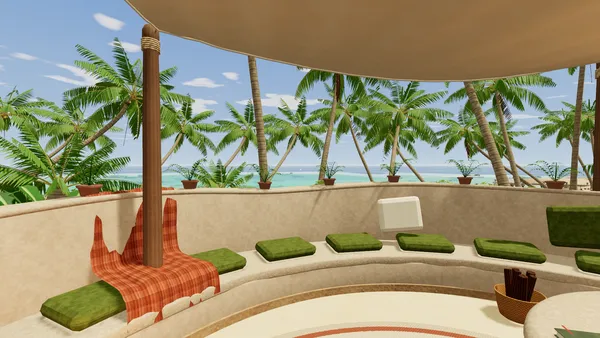
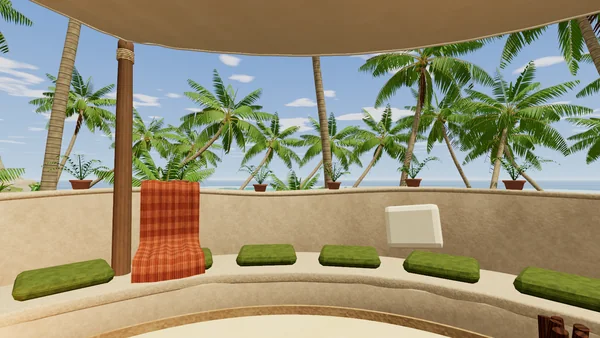
Turn the home hero into a scene carousel, and retake the view out from the cove
The 2 x 2 collage put the headline and buttons over the scenes, so it was hard
to see each one as a place to step into. The hero is now a headline band, then
a carousel: the centred scene fills the stage, its neighbours peek in either
side, and the text lines up with its edges. Only the scene's own glass tag sits
on the image.

- Scroll snapping moves the slides with no script. site/reel.js adds the loop,
  arrows and keys, progress segments, a slideshow that pauses on hover, focus
  or off screen and stops once the visitor takes over, and an ambient wash of
  the centred scene behind the stage.
- Slides come forward as they reach the centre (scale, light, a drift of the
  image in its frame) with CSS scroll-driven animations, and reel.js drives
  the same effect where those are missing. Reduced motion drops the movement
  and the slideshow.
- On a phone the slide is 80% wide with both neighbours peeking, the controls
  sit under it, and the pitch and buttons follow.
- The liquid glass treatment covers the brand, GitHub link, glass button,
  scene tags and carousel controls.
- The hero's image sizes hint follows the slide width, and the shelf's lastmod
  moves to today.

looking-out.webp is retaken on Crescent Cove at HEAD with the repaired throw,
which now hangs clear of the canopy mast.

diff --git a/site/shelf.css b/site/shelf.css
@@ -13,16 +13,31 @@ img{display:block;max-width:100%}
 h2{font:400 clamp(40px,5.4vw,72px)/.98 var(--serif);letter-spacing:-.01em;margin:0}
 .sub{color:var(--ink-soft);font-size:clamp(17px,1.5vw,19px);max-width:620px}
 
+/* liquid glass: a blurred, saturated backdrop under a faint tint, lit from the top left.
+   A 1px rim (::before) catches light on two opposite corners. Each element sets --lg-r to its corner radius. */
+.brand,.top nav .gh,.button.glass,.hero-tile span,.reel-btn,.reel-dots{--lg-r:var(--r-control);isolation:isolate;color:var(--cream);border-radius:var(--lg-r);
+ background:linear-gradient(135deg,rgba(255,255,255,.26) 0%,rgba(255,255,255,.07) 38%,rgba(255,255,255,.03) 62%,rgba(255,255,255,.16) 100%),rgba(26,31,22,.22);
+ -webkit-backdrop-filter:blur(18px) saturate(1.7) brightness(1.06);backdrop-filter:blur(18px) saturate(1.7) brightness(1.06);
+ box-shadow:inset 0 1px 0 rgba(255,255,255,.5),inset 0 -1px 0 rgba(255,255,255,.1),inset 1px 0 0 rgba(255,255,255,.14),inset 0 0 18px rgba(255,255,255,.07),0 1px 2px rgba(10,14,8,.3),0 10px 28px -6px rgba(10,14,8,.38);
+ text-shadow:0 1px 2px rgba(10,14,8,.4)}
+.brand::before,.top nav .gh::before,.button.glass::before,.hero-tile span::before,.reel-btn::before,.reel-dots::before{content:"";position:absolute;inset:0;z-index:-1;border-radius:inherit;padding:1px;pointer-events:none;
+ background:linear-gradient(135deg,rgba(255,255,255,.85),rgba(255,255,255,.08) 34%,rgba(255,255,255,.06) 66%,rgba(255,255,255,.55));
+ -webkit-mask:linear-gradient(#000 0 0) content-box,linear-gradient(#000 0 0);-webkit-mask-composite:xor;mask:linear-gradient(#000 0 0) content-box exclude,linear-gradient(#000 0 0)}
+.button.glass,.reel-btn{transition:transform .2s ease,background-color .2s ease}
+.button.glass:hover,.reel-btn:hover{background-color:rgba(255,255,255,.1)}
+@supports not ((backdrop-filter:blur(1px)) or (-webkit-backdrop-filter:blur(1px))){.brand,.top nav .gh,.button.glass,.hero-tile span,.reel-btn,.reel-dots{background:rgba(26,31,22,.62)}}
+@media (prefers-reduced-transparency:reduce){.brand,.top nav .gh,.button.glass,.hero-tile span,.reel-btn,.reel-dots{-webkit-backdrop-filter:none;backdrop-filter:none;background:rgba(26,31,22,.78)}}
+
 /* header over the hero */
 .top{position:absolute;inset:0 0 auto;z-index:5;display:flex;justify-content:space-between;align-items:center;gap:16px;padding:20px clamp(16px,4vw,40px);color:var(--cream)}
 .brand,.top nav a{display:inline-flex;align-items:center;text-decoration:none;font-size:14px;font-weight:500;border-radius:var(--r-control)}
-.brand{gap:12px;padding:10px 16px;letter-spacing:.22em;font-size:15px;background:var(--glass);border:1px solid var(--glass-line);backdrop-filter:blur(14px);-webkit-backdrop-filter:blur(14px)}
+.brand{position:relative;gap:12px;padding:10px 16px;letter-spacing:.22em;font-size:15px}
 .mark{width:16px;height:16px;border-radius:50%;background:linear-gradient(var(--cream) 50%,var(--signal) 50%);border:1.5px solid var(--cream)}
 .by{letter-spacing:0;font-size:12px;font-weight:400;opacity:.7;border-left:1px solid var(--glass-line);padding-left:12px}
 .top nav{display:flex;gap:4px}
 .top nav a{padding:10px 16px}
 .top nav a:hover{background:var(--glass)}
-.top nav .gh{border:1px solid var(--glass-line)}
+.top nav .gh{position:relative}
 .scenes-menu{position:relative}
 .scenes-menu summary{display:inline-flex;align-items:center;gap:8px;padding:10px 16px;font-size:14px;font-weight:500;border-radius:var(--r-control);cursor:pointer;list-style:none}
 .scenes-menu summary::-webkit-details-marker{display:none}
@@ -33,31 +48,82 @@ h2{font:400 clamp(40px,5.4vw,72px)/.98 var(--serif);letter-spacing:-.01em;margin
 
 /* hero */
 .hero{position:relative;min-height:100svh;display:grid;overflow:hidden;background:var(--night);color:var(--cream)}
-/* four worlds, 2 x 2; stacked in rows on a portrait screen so each keeps its frame */
-.hero-collage{position:absolute;inset:0;display:grid;grid-template:1fr 1fr/1fr 1fr;gap:3px;background:var(--night);transform:scale(1.02);animation:drift 24s ease-in-out infinite alternate}
-.hero-tile{position:relative;display:block;min-height:0;overflow:hidden;text-decoration:none}
-.hero-tile img{width:100%;height:100%;object-fit:cover;transition:filter .2s}
-.hero-tile:hover img{filter:brightness(1.08)}
-.hero-tile:focus-visible{outline:2px solid var(--cream);outline-offset:-6px}
-.hero-tile span{position:absolute;right:14px;bottom:14px;padding:5px 12px;font-size:13px;font-weight:500;border-radius:var(--r-control);background:var(--glass);border:1px solid var(--glass-line);backdrop-filter:blur(14px);-webkit-backdrop-filter:blur(14px)}
-@keyframes drift{to{transform:scale(1.05) translate(-.8%,-.5%)}}
-@media (prefers-reduced-motion:reduce){.hero-collage{animation:none}}
-@media (max-aspect-ratio:1/1){.hero-collage{grid-template:repeat(4,1fr)/1fr}}
-.hero::after{content:"";position:absolute;inset:0;background:linear-gradient(180deg,rgba(26,31,22,.45) 0%,rgba(26,31,22,.1) 34%,rgba(26,31,22,0) 50%,rgba(26,31,22,.55) 72%,rgba(26,31,22,.9) 100%)}
-/* the tiles stay clickable under the scrim and the copy; only the copy's links take the pointer */
-.hero::after,.hero-copy{pointer-events:none}
-.hero-copy a{pointer-events:auto}
 .hero-copy{position:relative;z-index:2;width:100%;max-width:1280px;display:flex;flex-direction:column;justify-content:space-between;padding:clamp(96px,13vh,132px) clamp(16px,4vw,40px) clamp(32px,7vh,72px)}
 .eyebrow{font-size:12px;font-weight:600;letter-spacing:.08em;text-transform:uppercase;opacity:.75;margin:0 0 18px}
 h1{font:400 clamp(46px,7vw,104px)/.95 var(--serif);letter-spacing:-.015em;margin:0;text-shadow:0 2px 30px rgba(26,31,22,.35)}
 h1 em{color:#ffe9c7}
+.sr-only{position:absolute;width:1px;height:1px;margin:-1px;overflow:hidden;clip-path:inset(50%);white-space:nowrap}
+
+/* home hero: the headline and pitch in a band, then the scenes in a carousel. The centred slide's
+   width sets the layout: the text lines up with its edges and the neighbours peek in either side.
+   Scroll snapping moves the slides with no script; reel.js adds the loop, controls and slideshow. */
+.home{container-type:inline-size}
+.home-grid{--slide-w:clamp(44cqw,calc((100svh - 430px)*16/9),min(66cqw,1400px));--edge:calc((100cqw - var(--slide-w))/2);--gap:clamp(12px,1.6cqw,28px);--back:.86;
+ position:relative;z-index:1;display:grid;grid-template-columns:var(--edge) minmax(0,1.15fr) minmax(0,1fr) var(--edge);
+ grid-template-areas:". title pitch ." "reel reel reel reel" ". ctas bar .";align-content:center;padding:clamp(92px,12vh,124px) 0 clamp(24px,4vh,48px)}
+.home-title{grid-area:title;align-self:end}
+.home-title h1{font-size:clamp(40px,calc(var(--slide-w)*.078),92px)}
+.home-pitch{grid-area:pitch;align-self:end;padding-left:clamp(24px,3cqw,56px)}
+.home-pitch .lede{margin:0;max-width:none}
+.home .capture{margin:12px 0 0}
+.home .ctas{grid-area:ctas;align-self:center}
+/* an ambient wash of the centred scene behind the stage, blurred small and scaled up so it costs little */
+.hero-ambient{position:absolute;inset:0;pointer-events:none;-webkit-mask:radial-gradient(70% 60% at 50% 64%,#000 25%,transparent 100%);mask:radial-gradient(70% 60% at 50% 64%,#000 25%,transparent 100%)}
+.hero-ambient i{position:absolute;left:40%;top:44%;width:20%;height:20%;background:center/cover no-repeat;filter:blur(7px) saturate(1.4);transform:scale(6);opacity:0;transition:opacity 1.4s ease}
+.hero-ambient i.is-on{opacity:.42}
+
+.reel{grid-area:reel;position:relative;display:flex;gap:var(--gap);overflow-x:auto;overflow-y:hidden;overscroll-behavior-x:contain;scroll-snap-type:x mandatory;scrollbar-width:none;
+ padding:clamp(22px,3.6vh,40px) var(--edge) clamp(22px,3.4vh,36px)}
+.reel::-webkit-scrollbar{display:none}
+.hero-tile{position:relative;flex:0 0 var(--slide-w);aspect-ratio:16/9;overflow:hidden;isolation:isolate;border-radius:clamp(14px,1.4cqw,22px);scroll-snap-align:center;scroll-snap-stop:always;
+ text-decoration:none;color:var(--cream);background:#11150e;box-shadow:0 0 0 1px rgba(255,255,255,.07),0 34px 60px -30px rgba(0,0,0,.75);-webkit-tap-highlight-color:transparent}
+.hero-tile img{position:absolute;top:0;left:-5%;width:110%;max-width:none;height:100%;object-fit:cover}
+.hero-tile:focus-visible{outline:2px solid var(--cream);outline-offset:4px}
+.hero-tile span{position:absolute;left:clamp(12px,1.4cqw,22px);bottom:clamp(12px,1.4cqw,22px);z-index:2;display:inline-flex;align-items:center;gap:10px;padding:9px 16px;
+ font-size:clamp(13px,1.05cqw,15px);font-weight:500;letter-spacing:.01em;line-height:1.2;--lg-r:999px;
+ background:linear-gradient(135deg,rgba(255,255,255,.22) 0%,rgba(255,255,255,.05) 40%,rgba(255,255,255,.02) 62%,rgba(255,255,255,.14) 100%),rgba(20,24,17,.5)}
+.hero-tile span::after{content:"\2197";opacity:.8;transition:translate .25s ease}
+.hero-tile:hover span::after{translate:2px -2px}
+/* each slide comes forward as it reaches the centre: the neighbours sit back and dim,
+   the image drifts within its frame, and the scene's tag rises in */
+@keyframes reel-frame{0%,12%,88%,100%{scale:var(--back)}50%{scale:1}}
+@keyframes reel-image{0%{translate:-4.5% 0}100%{translate:4.5% 0}}
+@keyframes reel-light{0%,12%,88%,100%{filter:brightness(.4) saturate(.75)}50%{filter:none}}
+@keyframes reel-tag{0%,38%,62%,100%{opacity:0;translate:0 8px}50%{opacity:1;translate:none}}
+@supports (animation-timeline:view()){
+ .hero-tile{view-timeline:--slide inline;animation:reel-frame linear both;animation-timeline:--slide}
+ .hero-tile img{animation:reel-image linear both,reel-light linear both;animation-timeline:--slide,--slide}
+ .hero-tile span{animation:reel-tag linear both;animation-timeline:--slide}
+}
+/* without scroll-driven animations, reel.js sets --p (1 at the centre, 0 one slide away) and --x (-1 to 1) */
+.reel.is-tracked .hero-tile{scale:calc(var(--back) + (1 - var(--back))*var(--p,1))}
+.reel.is-tracked .hero-tile img{translate:calc(var(--x,0)*4.5%) 0;filter:brightness(calc(.42 + .58*var(--p,1))) saturate(calc(.8 + .2*var(--p,1)))}
+.reel.is-tracked .hero-tile span{opacity:clamp(0,calc((var(--p,1) - .8)*5),1);translate:0 calc((1 - var(--p,1))*8px)}
+@media (prefers-reduced-motion:reduce){.hero-tile,.hero-tile img,.hero-tile span{scale:none!important;translate:none!important}}
+
+.reel-bar{grid-area:bar;justify-self:end;display:flex;align-items:center;gap:10px}
+.reel-bar[hidden]{display:none}
+.reel-btn{position:relative;flex:none;width:44px;height:44px;display:grid;place-items:center;padding:0;border:0;cursor:pointer;font:inherit;--lg-r:999px}
+.reel-btn svg{width:18px;height:18px;fill:none;stroke:currentColor;stroke-width:1.8;stroke-linecap:round;stroke-linejoin:round}
+.reel-play .i-play{fill:currentColor;stroke:none}
+.reel-bar.is-playing .i-play,.reel-bar:not(.is-playing) .i-pause{display:none}
+.reel-btn:focus-visible,.reel-dots button:focus-visible{outline:2px solid var(--cream);outline-offset:2px}
+.reel-dots{position:relative;display:flex;align-items:center;height:44px;margin:0;padding:0 12px;list-style:none;--lg-r:999px}
+.reel-dots button{display:block;width:clamp(26px,2.6cqw,36px);padding:16px 3px;border:0;background:none;cursor:pointer;border-radius:4px}
+.reel-dots i{display:block;height:3px;border-radius:2px;background:rgba(246,242,233,.26);overflow:hidden}
+.reel-dots i::after{content:"";display:block;height:100%;background:var(--cream);transform-origin:left;scale:0 1;transition:scale .3s ease}
+.reel-dots .is-active i::after{scale:1 1}
+.reel-bar.is-playing .reel-dots .is-active i::after{animation:reel-dwell 6.5s linear both}
+.reel-bar.is-held .reel-dots .is-active i::after{animation-play-state:paused}
+@keyframes reel-dwell{from{scale:0 1}to{scale:1 1}}
+@media (hover:none){.reel-arrow{display:none}}
 .lede{max-width:560px;font-size:clamp(16px,1.4vw,19px);opacity:.8;margin:0 0 28px}
 .ctas{display:flex;flex-wrap:wrap;gap:12px;margin:0}
 .button{display:inline-flex;align-items:center;justify-content:center;gap:10px;padding:14px 22px;border-radius:var(--r-control);font-size:15px;font-weight:500;text-decoration:none;transition:transform .2s ease}
 .button:hover{transform:translateY(-1px)}
 .button.primary{background:var(--cream);color:var(--ink)}
 .button.primary::after{content:"↗"}
-.button.glass{background:var(--glass);border:1px solid var(--glass-line);backdrop-filter:blur(14px);-webkit-backdrop-filter:blur(14px)}
+.button.glass{position:relative}
 .capture{font-size:12px;opacity:.55;margin:20px 0 0}
 
 /* workspace */
@@ -127,14 +193,18 @@ footer{border-top:1px solid var(--line);font-size:13px;color:var(--ink-faint)}
 footer .wrap{display:flex;justify-content:space-between;flex-wrap:wrap;gap:12px;padding-top:28px;padding-bottom:28px}
 footer a{text-decoration:none}
 
-/* about page: a shorter hero without the collage */
+/* about page: a shorter hero without the carousel */
 .hero.compact{min-height:min(80svh,760px)}
 .about-section{padding-top:clamp(72px,10vw,120px)}
 .about-section .sub{margin:20px 0 0}
 
 @media (max-width:860px){
   .by,.top nav a:not(.gh),.scenes-menu{display:none}
-  .hero::after{background:linear-gradient(180deg,rgba(26,31,22,.45) 0%,rgba(26,31,22,.1) 28%,rgba(26,31,22,.55) 46%,rgba(26,31,22,.88) 62%,rgba(26,31,22,.95) 100%)}
+  .home-grid{--slide-w:80cqw;--gap:10px;--back:.94;grid-template-columns:var(--edge) minmax(0,1fr) var(--edge);grid-template-areas:". title ." "reel reel reel" ". bar ." ". pitch ." ". ctas .";align-content:start;padding-top:96px}
+  .reel-bar{justify-self:center}
+  .home .ctas{margin-top:22px}
+  .home-title h1{font-size:clamp(40px,12cqw,64px)}
+  .home-pitch{padding:0;margin-top:28px}
   .button{flex:1 1 auto}
   .section-head,.step,.step:nth-of-type(even),.status,.scene,.build-grid{grid-template-columns:1fr}
   .step:nth-of-type(even) .copy{order:0}

diff --git a/site/reel.js b/site/reel.js
@@ -1,0 +1,158 @@
+// The home hero's carousel. Scroll snapping moves the slides and works without this script.
+// This adds the loop, arrows and keys, progress segments, a slideshow that stops for good once the
+// visitor takes over, the ambient wash behind the stage and, where CSS scroll-driven animations are
+// missing, the focus effect on each slide (shelf.css reads --p and --x).
+(() => {
+  const reel = document.querySelector('.reel'), bar = document.querySelector('.reel-bar');
+  const real = reel ? [...reel.querySelectorAll('.hero-tile')] : [];
+  if (!bar || real.length < 2) return;
+  const n = real.length, dots = bar.querySelector('.reel-dots'), play = bar.querySelector('.reel-play');
+  const status = document.querySelector('.reel-status'), wash = [...document.querySelectorAll('.hero-ambient i')];
+  const still = matchMedia('(prefers-reduced-motion: reduce)');
+  const title = (slide) => slide.querySelector('span')?.textContent ?? '';
+
+  // Two copies at each end let the neighbours peek on both sides; on settling on a copy the reel
+  // jumps to its original, which looks the same, so the loop never shows a seam.
+  const LEAD = 2;
+  real.forEach((slide, i) => { slide.dataset.i = i; });
+  const copy = (slide) => {
+    const c = slide.cloneNode(true);
+    c.dataset.copy = ''; c.tabIndex = -1; c.setAttribute('aria-hidden', 'true');
+    c.querySelector('img')?.removeAttribute('fetchpriority');
+    return c;
+  };
+  reel.prepend(...real.slice(-LEAD).map(copy)); reel.append(...real.slice(0, LEAD).map(copy));
+  const slides = [...reel.querySelectorAll('.hero-tile')];
+
+  // Geometry is read once per layout change, never during a scroll frame.
+  let mids = [], width = 0, pitch = 1;
+  const measure = () => {
+    width = reel.clientWidth;
+    mids = slides.map((s) => s.offsetLeft + s.offsetWidth / 2);
+    pitch = mids[1] - mids[0] || 1;
+  };
+  const leftFor = (k) => mids[k] - width / 2;
+  const nearest = (x) => {
+    let best = 0;
+    for (let k = 1; k < slides.length; k++) if (Math.abs(leftFor(k) - x) < Math.abs(leftFor(best) - x)) best = k;
+    return best;
+  };
+  let target = null;
+  const move = (k, smooth) => {
+    k = Math.max(0, Math.min(slides.length - 1, k));
+    target = smooth ? k : null;
+    reel.scrollTo({ left: leftFor(k), behavior: smooth && !still.matches ? 'smooth' : 'instant' });
+    return k;
+  };
+  const step = (d) => move((target ?? nearest(reel.scrollLeft)) + d, true);
+
+  // Fallback focus effect for browsers without animation-timeline.
+  const tracked = !(window.CSS && CSS.supports('animation-timeline: view()'));
+  if (tracked) reel.classList.add('is-tracked');
+  const track = (x) => {
+    if (!tracked) return;
+    const mid = x + width / 2, reach = (width + pitch) / 2;
+    slides.forEach((s, k) => {
+      const d = mids[k] - mid;
+      s.style.setProperty('--p', Math.max(0, 1 - Math.abs(d) / pitch).toFixed(3));
+      s.style.setProperty('--x', Math.max(-1, Math.min(1, -d / reach)).toFixed(3));
+    });
+  };
+
+  const marks = real.map((slide, i) => {
+    const li = document.createElement('li'), b = document.createElement('button');
+    b.type = 'button'; b.setAttribute('aria-label', `Show ${title(slide)}`); b.append(document.createElement('i'));
+    b.addEventListener('click', () => { stop(); move(LEAD + i, true); });
+    li.append(b); dots.append(li);
+    return b;
+  });
+
+  let lit = 0;
+  const glow = (slide) => {
+    if (wash.length < 2) return;
+    const img = slide.querySelector('img'), small = img.getAttribute('srcset')?.split(',')[0].trim().split(/\s+/)[0];
+    const next = wash[lit ^= 1];
+    next.style.backgroundImage = `url("${small || img.currentSrc || img.src}")`;
+    next.classList.add('is-on'); wash[lit ^ 1].classList.remove('is-on');
+  };
+
+  let active = -1;
+  const show = (i) => {
+    if (i === active) return;
+    active = i;
+    marks.forEach((b, j) => { b.classList.toggle('is-active', j === i); if (j === i) b.setAttribute('aria-current', 'true'); else b.removeAttribute('aria-current'); });
+    if (status) status.textContent = `${title(real[i])}, ${i + 1} of ${n}`;
+    glow(real[i]);
+  };
+
+  // A settled reel on a copy jumps to the original, unless a finger is still on the glass.
+  let touching = false;
+  const settle = () => {
+    if (touching) return;
+    target = null;
+    const k = nearest(reel.scrollLeft), slide = slides[k];
+    if ('copy' in slide.dataset) move(LEAD + Number(slide.dataset.i), false);
+    show(Number(slide.dataset.i));
+  };
+  let frame = 0, idle = 0;
+  const ends = 'onscrollend' in window;
+  reel.addEventListener('scroll', () => {
+    if (!frame) frame = requestAnimationFrame(() => {
+      frame = 0;
+      const x = reel.scrollLeft;
+      track(x); show(Number(slides[nearest(x)].dataset.i));
+    });
+    if (!ends) { clearTimeout(idle); idle = setTimeout(settle, 160); }
+  }, { passive: true });
+  if (ends) reel.addEventListener('scrollend', settle);
+  reel.addEventListener('touchstart', () => { touching = true; }, { passive: true });
+  reel.addEventListener('touchend', () => { touching = false; if (!ends) { clearTimeout(idle); idle = setTimeout(settle, 160); } }, { passive: true });
+
+  // The slideshow: the active segment's fill is the timer, so pausing the fill pauses the show.
+  let playing = !still.matches;
+  const held = new Set();
+  const sync = () => {
+    bar.classList.toggle('is-playing', playing);
+    bar.classList.toggle('is-held', held.size > 0);
+    play.setAttribute('aria-label', playing ? 'Pause the slideshow' : 'Play the slideshow');
+    status?.setAttribute('aria-live', playing && !held.size ? 'off' : 'polite');
+  };
+  const stop = () => { if (playing) { playing = false; sync(); } };
+  const hold = (why, on) => { if (on) held.add(why); else held.delete(why); sync(); };
+  dots.addEventListener('animationend', (e) => { if (e.animationName === 'reel-dwell' && playing && !held.size) step(1); });
+  play.addEventListener('click', () => { playing = !playing; sync(); });
+  bar.querySelectorAll('[data-step]').forEach((b) => b.addEventListener('click', () => { stop(); step(Number(b.dataset.step)); }));
+
+  // The visitor takes over: touch, a sideways scroll, the keys or a click on a neighbour.
+  reel.addEventListener('pointerdown', (e) => { if (e.pointerType !== 'mouse') stop(); });
+  reel.addEventListener('wheel', (e) => { if (Math.abs(e.deltaX) > Math.abs(e.deltaY)) stop(); }, { passive: true });
+  reel.addEventListener('keydown', (e) => {
+    if (e.key !== 'ArrowLeft' && e.key !== 'ArrowRight') return;
+    e.preventDefault(); stop();
+    const k = step(e.key === 'ArrowLeft' ? -1 : 1);
+    slides[LEAD + Number(slides[k].dataset.i)].focus({ preventScroll: true });
+  });
+  reel.addEventListener('click', (e) => {
+    const k = slides.indexOf(e.target.closest('.hero-tile'));
+    if (k < 0 || k === nearest(reel.scrollLeft)) return;
+    e.preventDefault(); stop(); move(k, true);
+  });
+  reel.addEventListener('focusin', (e) => {
+    hold('focus', true);
+    // A slide reached by Tab comes to the centre; one already there, or its copy on the way, stays.
+    const k = slides.indexOf(e.target.closest('.hero-tile'));
+    if (k >= 0 && slides[k].dataset.i !== slides[target ?? nearest(reel.scrollLeft)].dataset.i) move(k, true);
+  });
+  reel.addEventListener('focusout', (e) => { if (!reel.contains(e.relatedTarget)) hold('focus', false); });
+  reel.addEventListener('pointerenter', (e) => { if (e.pointerType === 'mouse') hold('hover', true); });
+  reel.addEventListener('pointerleave', () => hold('hover', false));
+  document.addEventListener('visibilitychange', () => hold('hidden', document.hidden));
+  new IntersectionObserver(([entry]) => hold('away', !entry.isIntersecting), { threshold: 0.35 }).observe(reel);
+  new ResizeObserver(() => {
+    const keep = active < 0 ? 0 : active;
+    measure(); move(LEAD + keep, false); track(reel.scrollLeft);
+  }).observe(reel);
+
+  measure(); move(LEAD, false); track(reel.scrollLeft); show(0);
+  bar.hidden = false; sync();
+})();

diff --git a/site/index.html b/site/index.html
@@ -25,8 +25,9 @@
   <meta name="twitter:image" content="https://holodeck.kilnstudio.tools/images/card.jpg">
   <meta name="twitter:image:alt" content="Four Holodeck worlds: Meridian Sanctuary's marble terraces above the clouds, Crescent Cove's lagoon from the air, a snowbound mountain cabin among pines, and the Quiet Courtyard's fountain among cypress and olive trees.">
   <link rel="preload" href="fonts/InstrumentSerif-Regular.woff2" as="font" type="font/woff2" crossorigin>
-  <!-- preload:start --><link rel="preload" as="image" href="images/hero-meridian-sanctuary.webp" imagesrcset="images/hero-meridian-sanctuary-960.webp 960w, images/hero-meridian-sanctuary.webp 1920w" imagesizes="(max-aspect-ratio:1/1) 100vw, 50vw" fetchpriority="high"><!-- preload:end -->
+  <!-- preload:start --><link rel="preload" as="image" href="images/hero-meridian-sanctuary.webp" imagesrcset="images/hero-meridian-sanctuary-960.webp 960w, images/hero-meridian-sanctuary.webp 1920w" imagesizes="(max-width:860px) 80vw, 66vw" fetchpriority="high"><!-- preload:end -->
   <link rel="stylesheet" href="shelf.css">
+  <script src="reel.js" defer></script>
   <!-- jsonld:start --><script type="application/ld+json">{
  "@context": "https://schema.org",
  "@graph": [
@@ -135,23 +136,31 @@
   </header>
 
   <main>
-    <section class="hero">
-      <div class="hero-collage"><!-- hero:start -->
-        <a class="hero-tile" href="worlds/meridian-sanctuary/"><img src="images/hero-meridian-sanctuary.webp" srcset="images/hero-meridian-sanctuary-960.webp 960w, images/hero-meridian-sanctuary.webp 1920w" sizes="(max-aspect-ratio:1/1) 100vw, 50vw" width="1920" height="1080" fetchpriority="high" alt="Meridian Sanctuary: a causeway between mirror pools toward a marble gate tower, with floating statues and a mirrored orb above the clouds."><span>Meridian Sanctuary</span></a>
-        <a class="hero-tile" href="worlds/crescent-cove/"><img src="images/hero-crescent-cove.webp" srcset="images/hero-crescent-cove-960.webp 960w, images/hero-crescent-cove.webp 1920w" sizes="(max-aspect-ratio:1/1) 100vw, 50vw" width="1920" height="1080" alt="Crescent Cove from the air: a palm-lined crescent beach and a rocky headland around a turquoise lagoon."><span>Crescent Cove</span></a>
-        <a class="hero-tile" href="worlds/courtyard/"><img src="images/hero-courtyard.webp" srcset="images/hero-courtyard-960.webp 960w, images/hero-courtyard.webp 1920w" sizes="(max-aspect-ratio:1/1) 100vw, 50vw" width="1920" height="1080" alt="The Quiet Courtyard: a walled garden of cypress and olive trees around a tiered stone fountain."><span>The Quiet Courtyard</span></a>
-        <a class="hero-tile" href="worlds/winter-mountainside-cabin/"><img src="images/hero-winter-mountainside-cabin.webp" srcset="images/hero-winter-mountainside-cabin-960.webp 960w, images/hero-winter-mountainside-cabin.webp 1920w" sizes="(max-aspect-ratio:1/1) 100vw, 50vw" width="1920" height="1080" alt="Winter Mountainside Cabin: a timber cabin on a snowy slope among snow-laden pines."><span>Winter Mountainside Cabin</span></a>
-      <!-- hero:end --></div>
-      <div class="hero-copy">
-        <div>
+    <section class="hero home">
+      <div class="hero-ambient" aria-hidden="true"><i></i><i></i></div>
+      <div class="home-grid">
+        <div class="home-title">
           <p class="eyebrow">Early source prototype</p>
           <h1>Describe a place.<br><em>Then walk into it.</em></h1>
         </div>
-        <div>
+        <div class="home-pitch">
           <p class="lede">Holodeck is a local workspace where you and your coding agent build 3D worlds together, then explore them on foot, right in the browser.</p>
-          <p class="ctas"><a class="button primary" id="first-world" href="worlds/meridian-sanctuary/">Enter Meridian Sanctuary</a><a class="button glass" href="#build">Build your own</a></p>
-          <p class="capture">Meridian Sanctuary, Crescent Cove, Winter Mountainside Cabin and the Quiet Courtyard, each rendered live in the browser.</p>
+          <p class="capture">Meridian Sanctuary, Crescent Cove, the Quiet Courtyard and Winter Mountainside Cabin, each rendered live in the browser.</p>
         </div>
+        <div class="reel" role="region" aria-roledescription="carousel" aria-label="Scenes"><!-- hero:start -->
+        <a class="hero-tile" href="worlds/meridian-sanctuary/"><img src="images/hero-meridian-sanctuary.webp" srcset="images/hero-meridian-sanctuary-960.webp 960w, images/hero-meridian-sanctuary.webp 1920w" sizes="(max-width:860px) 80vw, 66vw" width="1920" height="1080" fetchpriority="high" alt="Meridian Sanctuary: a causeway between mirror pools toward a marble gate tower, with floating statues and a mirrored orb above the clouds."><span>Meridian Sanctuary</span></a>
+        <a class="hero-tile" href="worlds/crescent-cove/"><img src="images/hero-crescent-cove.webp" srcset="images/hero-crescent-cove-960.webp 960w, images/hero-crescent-cove.webp 1920w" sizes="(max-width:860px) 80vw, 66vw" width="1920" height="1080" alt="Crescent Cove from the air: a palm-lined crescent beach and a rocky headland around a turquoise lagoon."><span>Crescent Cove</span></a>
+        <a class="hero-tile" href="worlds/courtyard/"><img src="images/hero-courtyard.webp" srcset="images/hero-courtyard-960.webp 960w, images/hero-courtyard.webp 1920w" sizes="(max-width:860px) 80vw, 66vw" width="1920" height="1080" alt="The Quiet Courtyard: a walled garden of cypress and olive trees around a tiered stone fountain."><span>The Quiet Courtyard</span></a>
+        <a class="hero-tile" href="worlds/winter-mountainside-cabin/"><img src="images/hero-winter-mountainside-cabin.webp" srcset="images/hero-winter-mountainside-cabin-960.webp 960w, images/hero-winter-mountainside-cabin.webp 1920w" sizes="(max-width:860px) 80vw, 66vw" width="1920" height="1080" alt="Winter Mountainside Cabin: a timber cabin on a snowy slope among snow-laden pines."><span>Winter Mountainside Cabin</span></a>
+      <!-- hero:end --></div>
+        <div class="reel-bar" hidden>
+          <button class="reel-btn reel-arrow" type="button" data-step="-1" aria-label="Previous scene"><svg viewBox="0 0 20 20" aria-hidden="true"><path d="M12 4.5 6.5 10l5.5 5.5"/></svg></button>
+          <ol class="reel-dots"></ol>
+          <button class="reel-btn reel-arrow" type="button" data-step="1" aria-label="Next scene"><svg viewBox="0 0 20 20" aria-hidden="true"><path d="M8 4.5 13.5 10 8 15.5"/></svg></button>
+          <button class="reel-btn reel-play" type="button" aria-label="Pause the slideshow"><svg class="i-pause" viewBox="0 0 20 20" aria-hidden="true"><path d="M7.5 5v10M12.5 5v10"/></svg><svg class="i-play" viewBox="0 0 20 20" aria-hidden="true"><path d="M7 4.8v10.4l8.5-5.2z"/></svg></button>
+        </div>
+        <p class="reel-status sr-only" aria-live="off"></p>
+        <p class="ctas"><a class="button primary" id="first-world" href="worlds/meridian-sanctuary/">Enter Meridian Sanctuary</a><a class="button glass" href="#build">Build your own</a></p>
       </div>
     </section>
 
